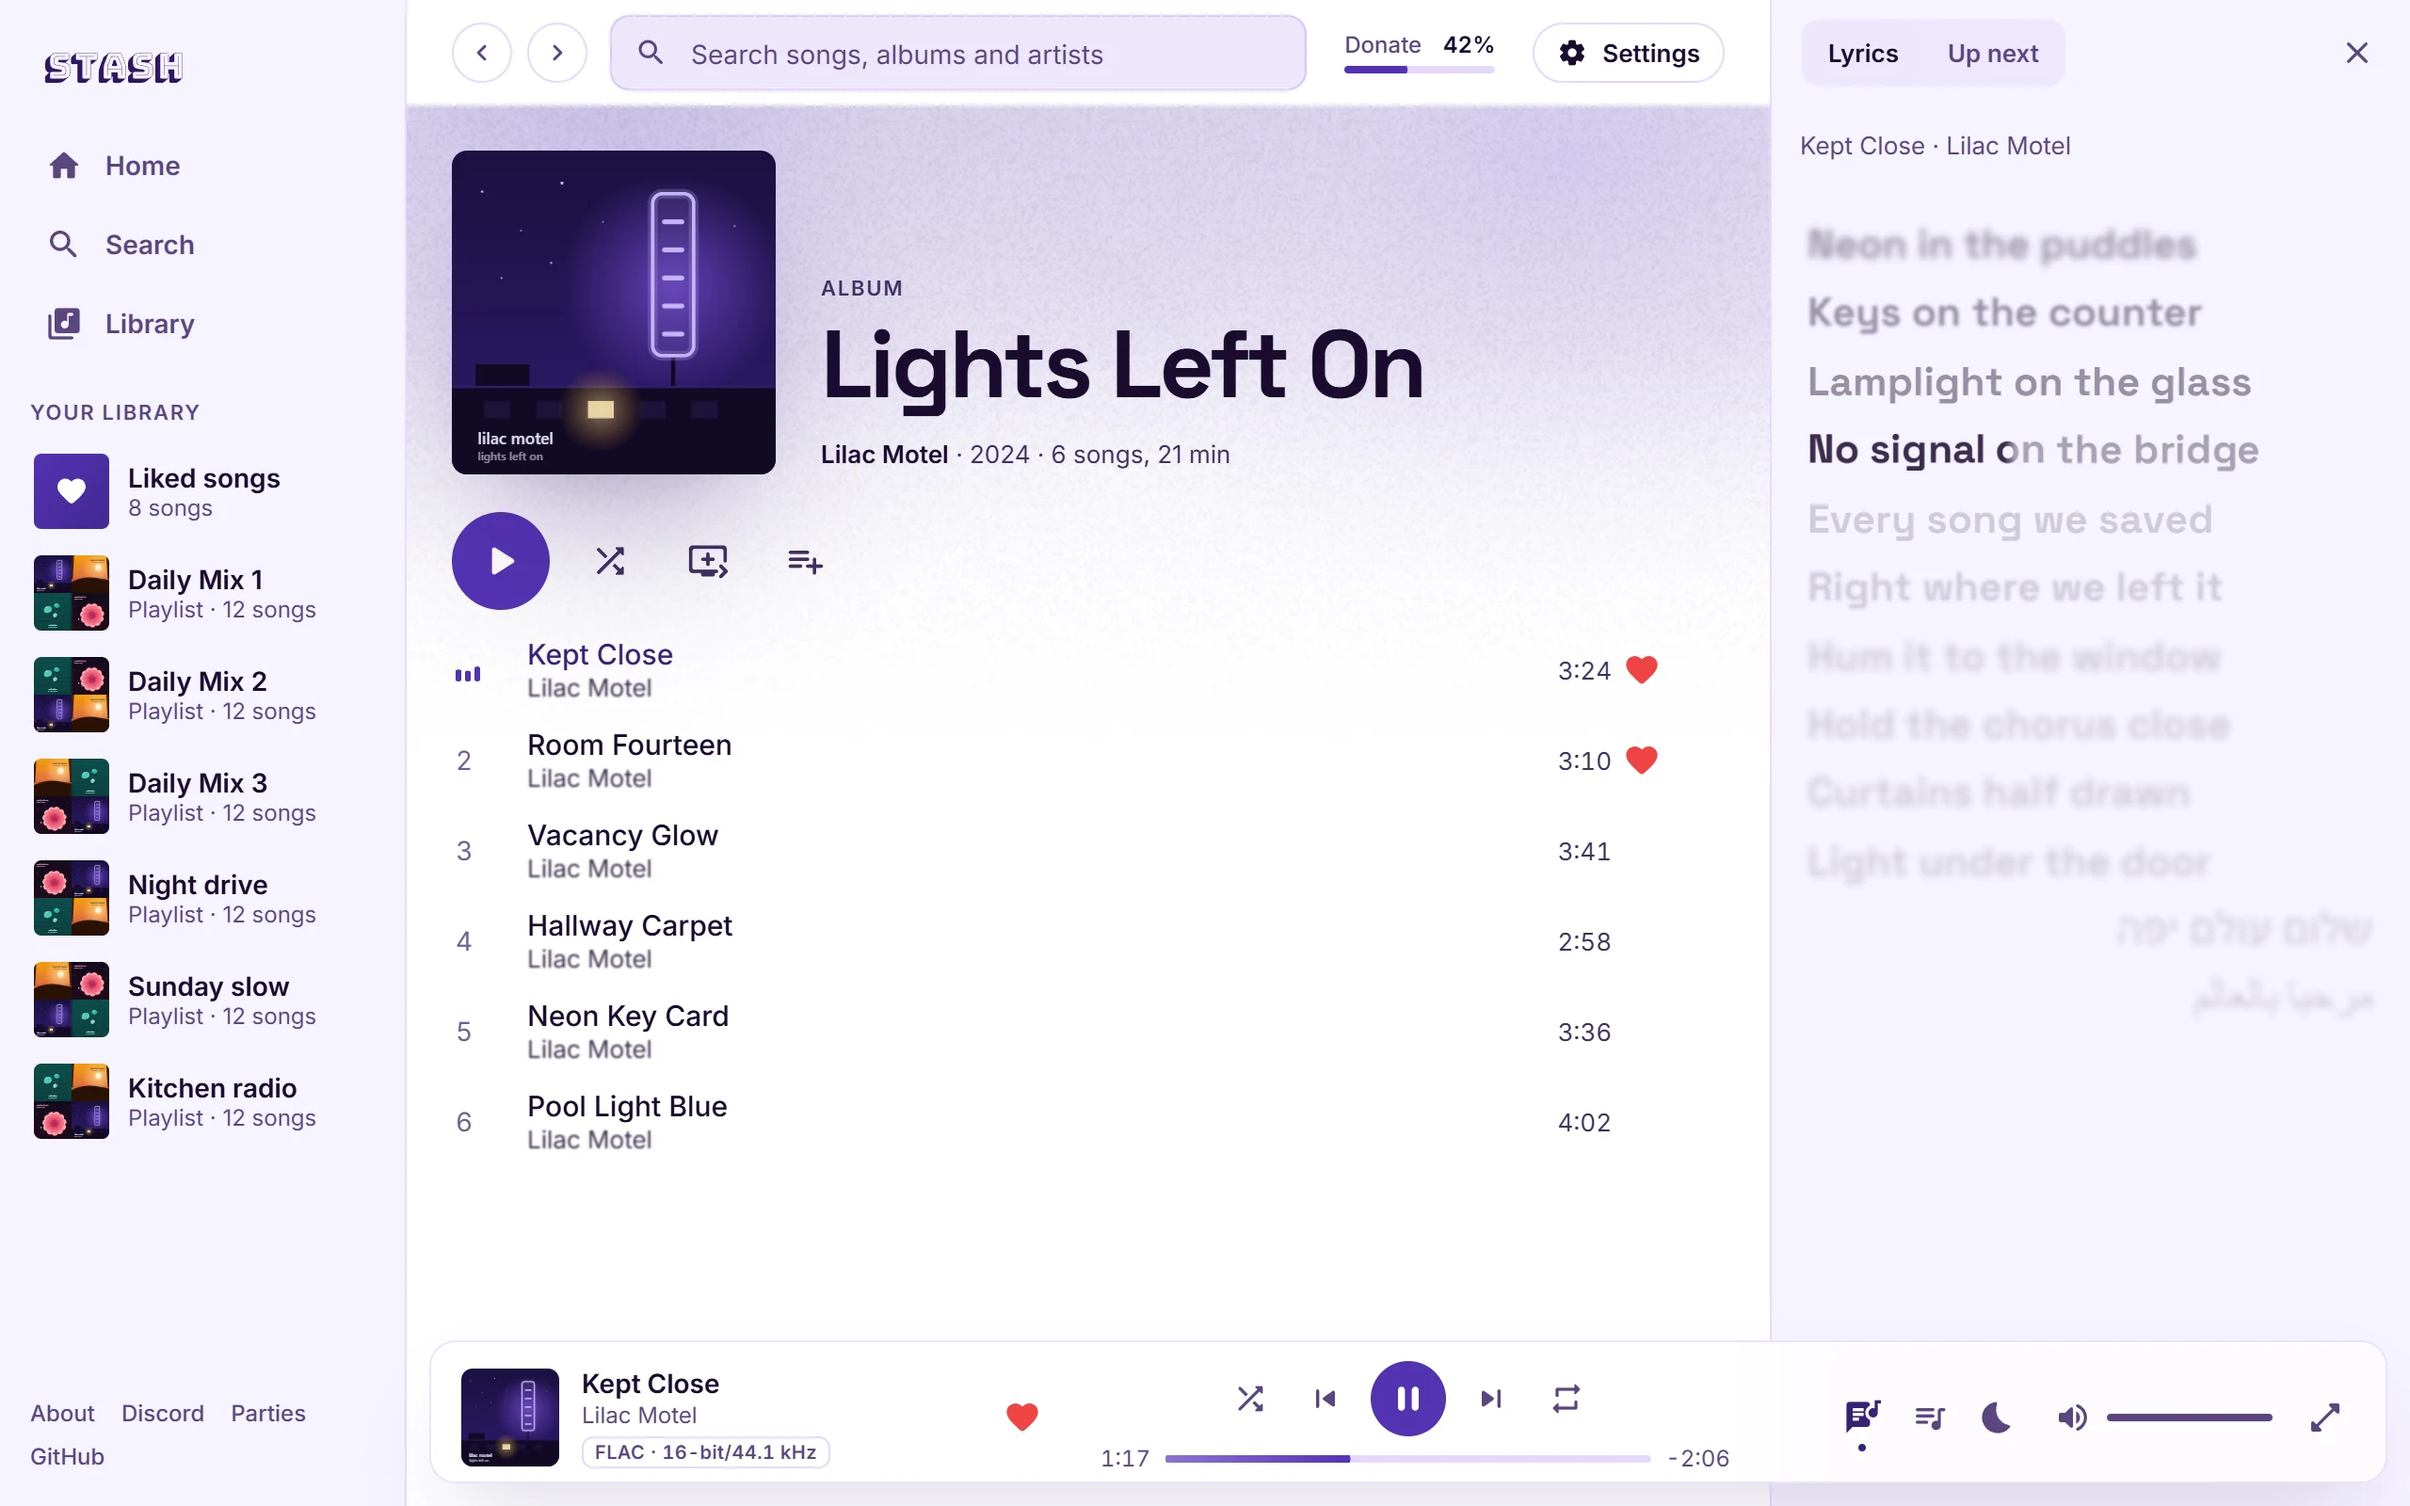
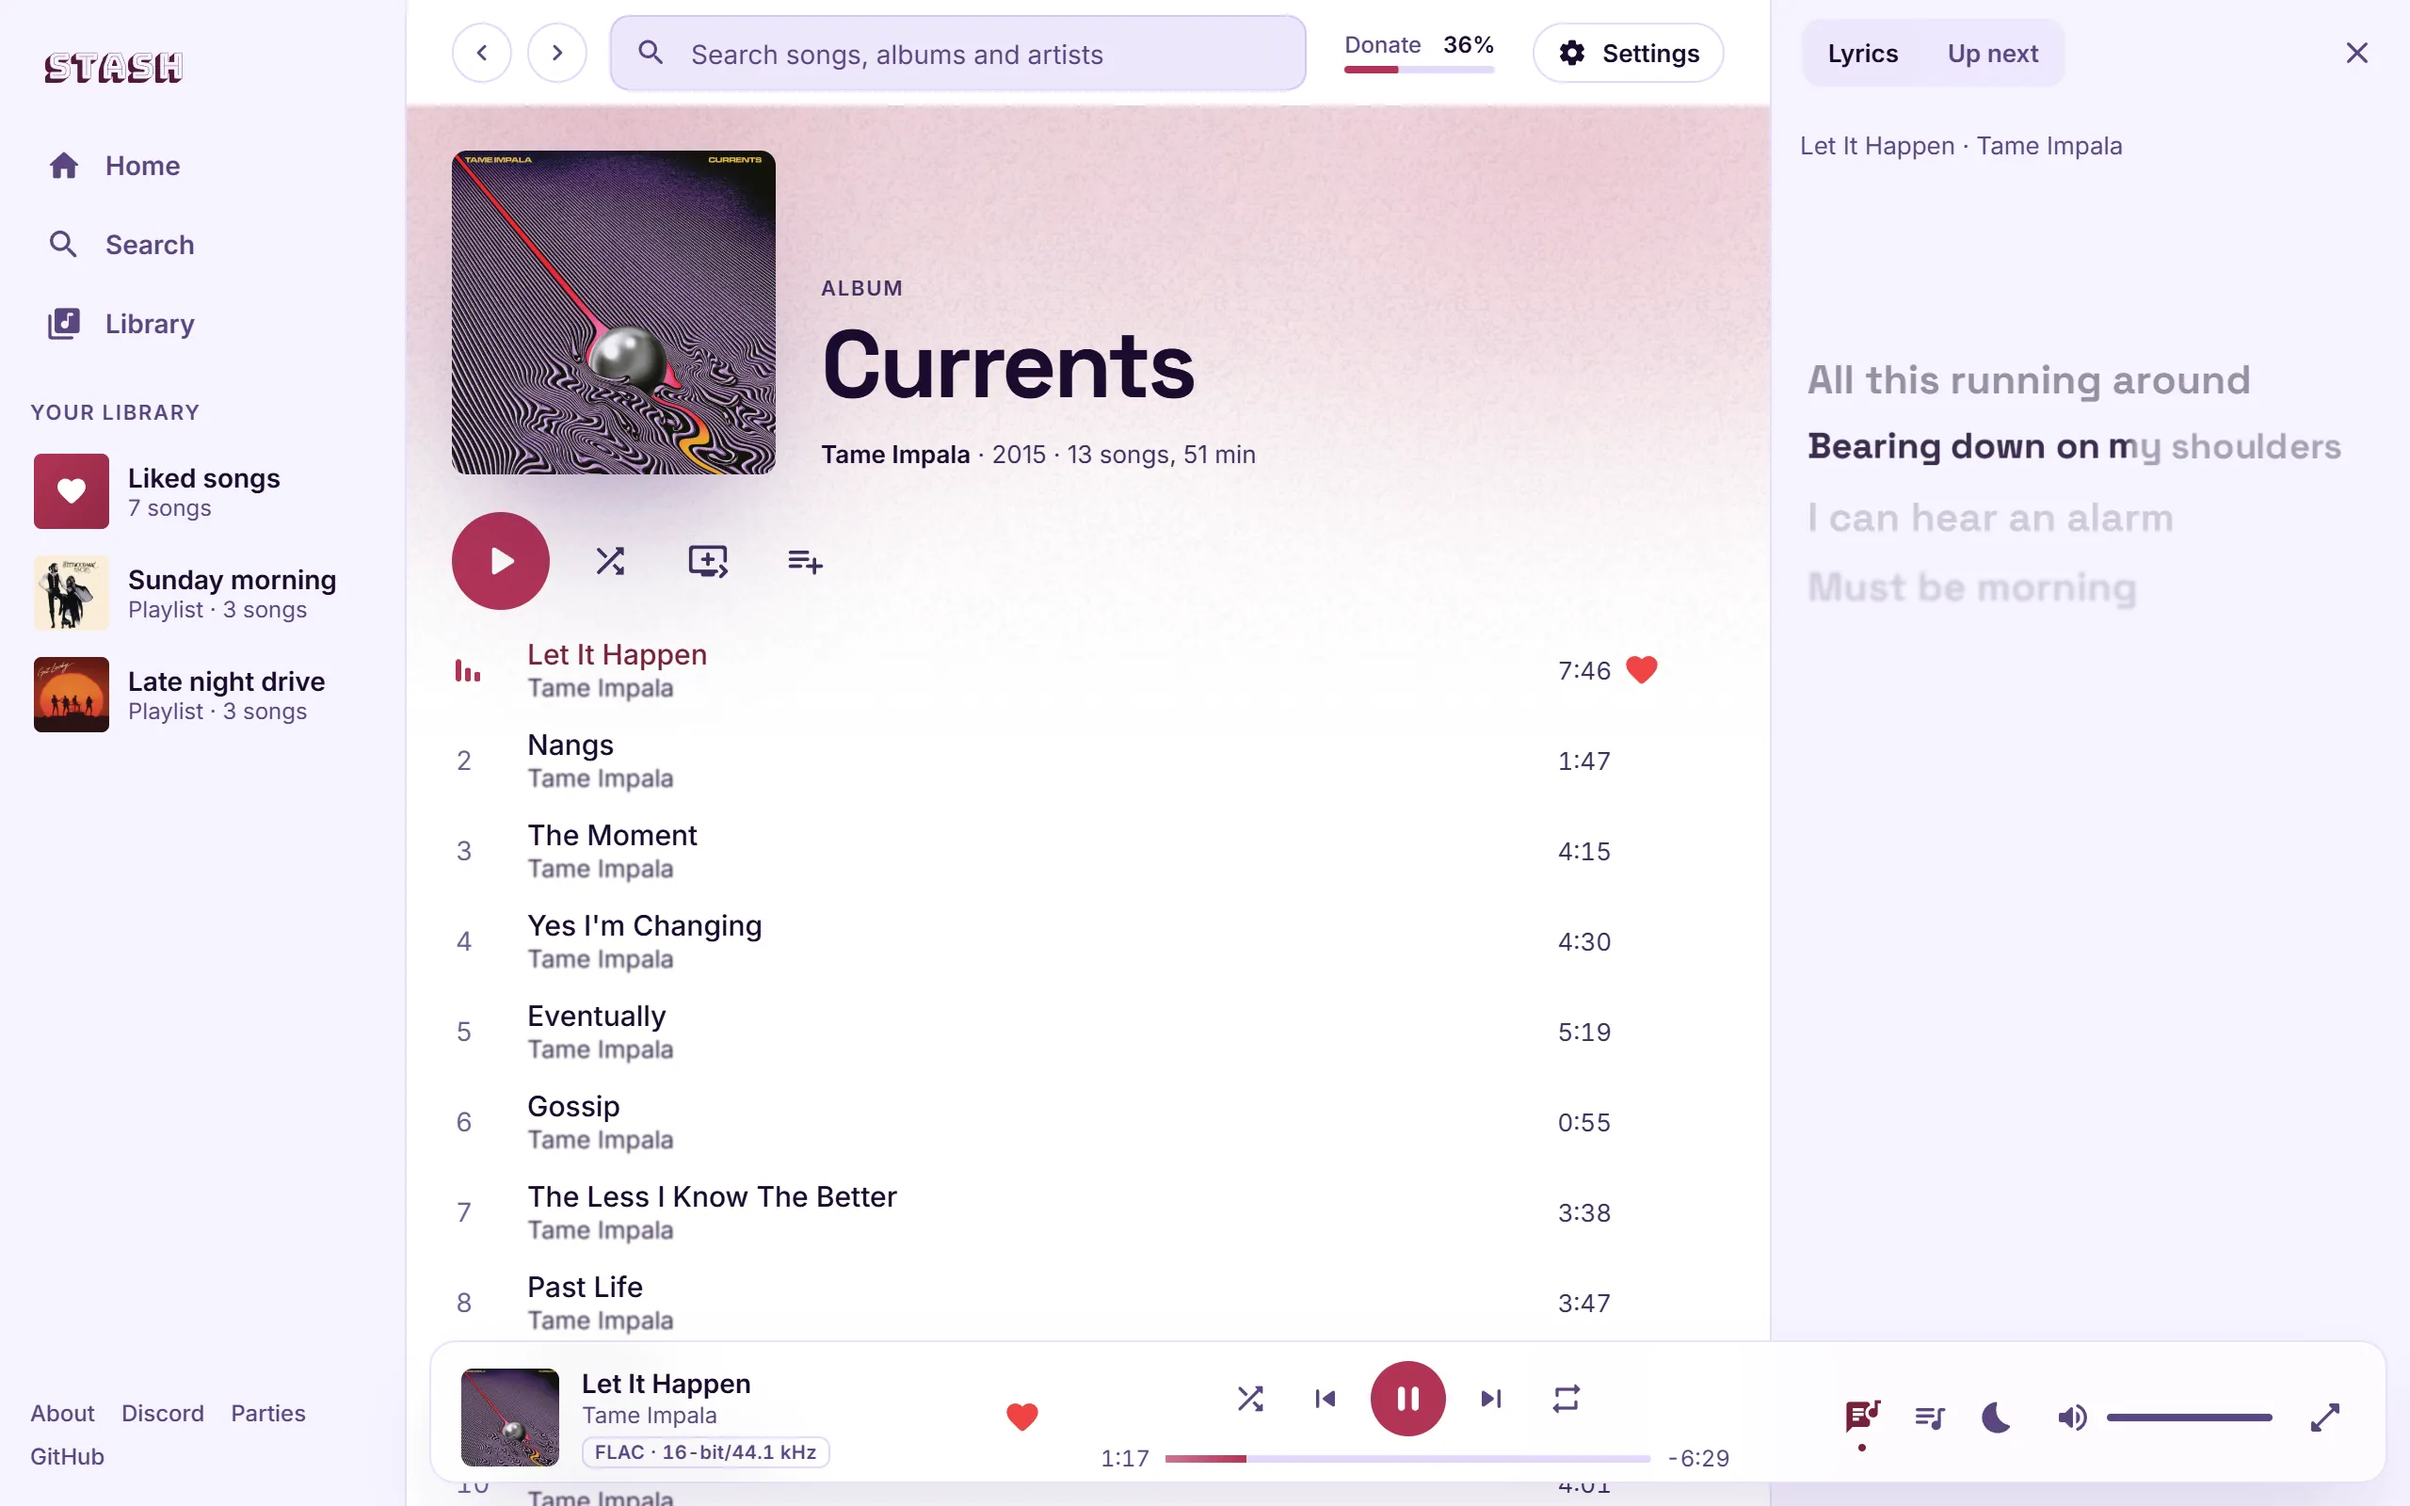
feat(site): web player showcase with real albums and covers, no record
The hero's browser window and the #web-player shots (Now Playing, Search,
an album) are re-captured from the current player with a small real
library (real albums, covers, lyrics and the live sources), in dark and
light, at the same 1280 x 800 @2x framing and WebP format. Now Playing
shows the album cover where the spinning record used to be; only a few
lyric lines are left visible. Alt text and the README say so.

diff --git a/web/src/data/player-shots.ts b/web/src/data/player-shots.ts
@@ -1,8 +1,8 @@
 /**
  * The web player's screenshots (play.stashfm.app), each in a dark and a light version, with its alt text.
  *
- * Files live in src/assets/player/{dark,light}/<name>.webp: the real player in its demo mode (`?fake=1`,
- * whose songs and covers are made up), captured at 1280 × 800 at 2x, so 2560 × 1600. Astro resizes them at
+ * Files live in src/assets/player/{dark,light}/<name>.webp: the real player with its real sources, real
+ * albums and covers, captured at 1280 × 800 at 2x, so 2560 × 1600. Astro resizes them at
  * build time. They're shown in a browser window (components/BrowserFrame.astro).
  */
 import type { ImageMetadata } from 'astro';
@@ -13,8 +13,8 @@ const dark = import.meta.glob<ImageModule>('../assets/player/dark/*.webp', { eag
 const light = import.meta.glob<ImageModule>('../assets/player/light/*.webp', { eager: true });
 
 const ALT = {
-  home: 'The Stash web player in a browser: Home, with Daily Discover, recently played albums and the lyrics beside them',
-  'now-playing': 'The web player’s Now Playing: the record turning beside big lyrics',
+  home: 'The Stash web player in a browser: Home, with Daily Discover, your likes and playlists, and the lyrics beside them',
+  'now-playing': 'The web player’s Now Playing: the album cover beside big lyrics',
   search: 'Searching in the web player: the top result, songs and artists',
   album: 'An album page in the web player, with its songs',
 } as const;

diff --git a/web/README.md b/web/README.md
@@ -138,8 +138,9 @@ the smaller sizes at build time. For a new screen, also add its name and alt tex
 `src/data/screenshots.ts`.
 
 The web player's screenshots (the hero's browser window and the web player section) are in
-`src/assets/player/dark/` and `light/`: the real player in its demo mode (`?fake=1` on a local `npm run dev`
-in the player repo, whose songs and covers are made up), captured at 1280 × 800 at 2x, so 2560 × 1600 WebP.
+`src/assets/player/dark/` and `light/`: the real player (a local `npm run dev` in the player repo, pointed
+at the live sources) with a small real library, so the albums and covers are real, captured at 1280 × 800
+at 2x, so 2560 × 1600 WebP. Only a few lyric lines are left visible in them.
 Their names and alt text are in `src/data/player-shots.ts`, and `BrowserFrame.astro` draws the window
 around them.
 
